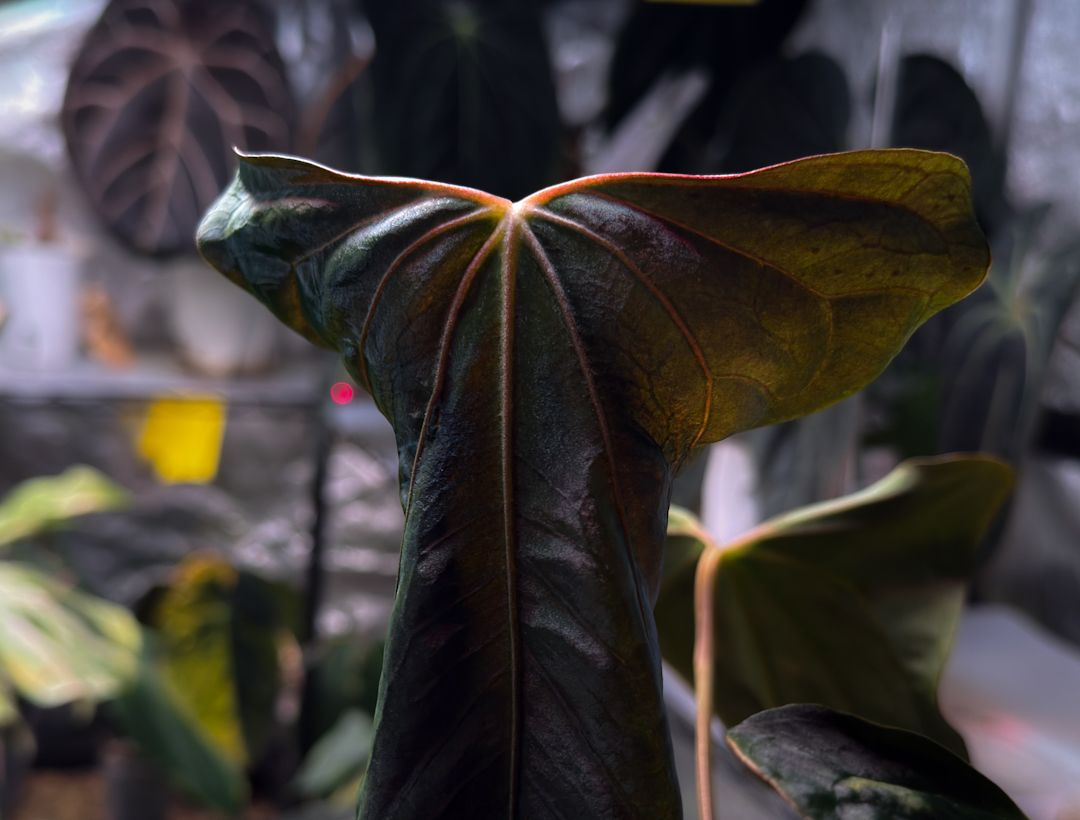
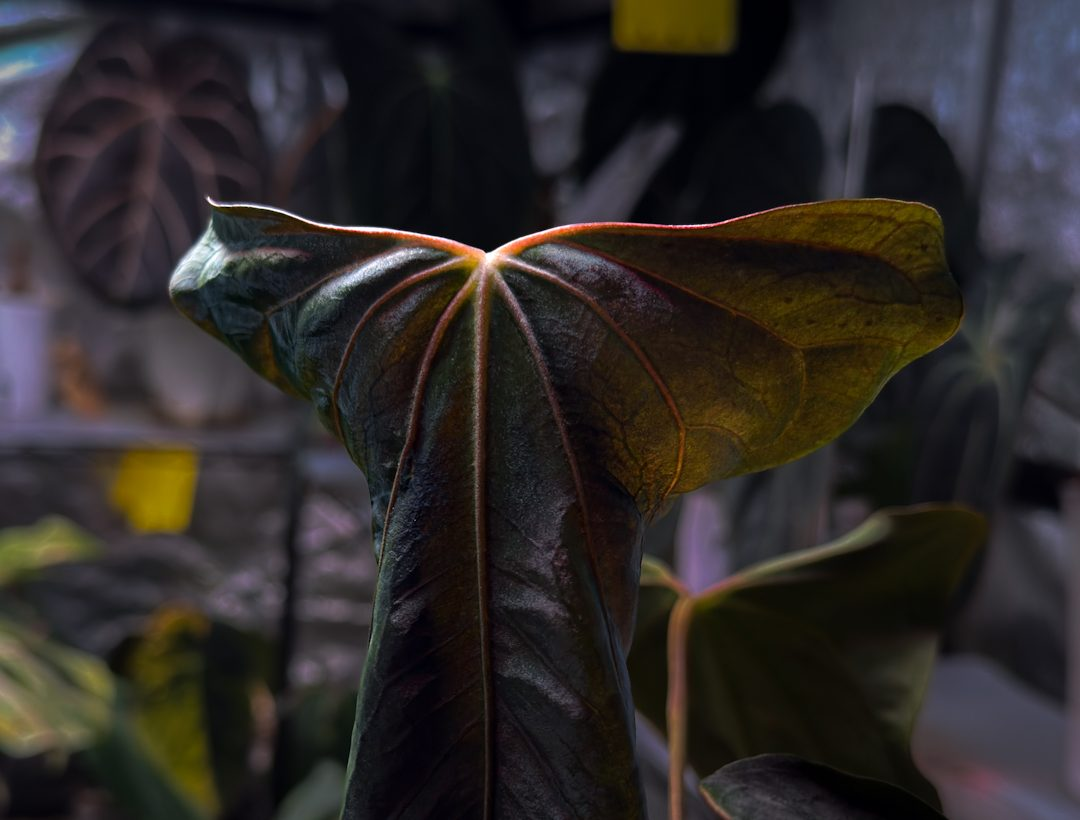
Archiv-Kopf: neues, selbst bearbeitetes Foto mit leichtem Shade
Claude-Session: https://claude.ai/code/session_017fRbEsTa883nfL9vUJRp6N

diff --git a/assets/component-plant-archive.css b/assets/component-plant-archive.css
@@ -30,7 +30,7 @@
   padding: 6rem 0 5.2rem;
   background:
     linear-gradient(to bottom, rgba(10, 10, 10, 0) 55%, rgb(10, 10, 10) 100%),
-    linear-gradient(to right, rgba(10, 10, 10, 0.46), rgba(10, 10, 10, 0.46)),
+    linear-gradient(to right, rgba(10, 10, 10, 0.38), rgba(10, 10, 10, 0.38)),
     var(--archiv-bild) 56% 30% / cover no-repeat,
     rgb(10, 10, 10);
 }
@@ -40,7 +40,7 @@
     padding: 8rem 0 7rem;
     background:
       linear-gradient(to bottom, rgba(10, 10, 10, 0) 55%, rgb(10, 10, 10) 100%),
-      linear-gradient(to right, rgba(10, 10, 10, 0.74) 0%, rgba(10, 10, 10, 0.4) 50%, rgba(10, 10, 10, 0.12) 100%),
+      linear-gradient(to right, rgba(10, 10, 10, 0.72) 0%, rgba(10, 10, 10, 0.3) 50%, rgba(10, 10, 10, 0.06) 100%),
       var(--archiv-bild) center 30% / cover no-repeat,
       rgb(10, 10, 10);
   }
